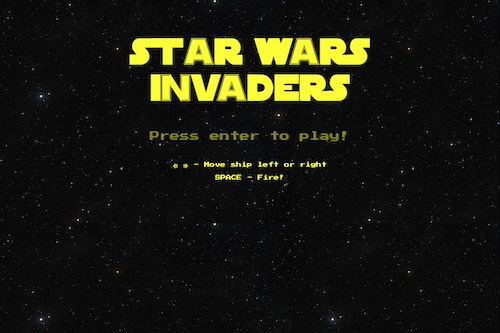
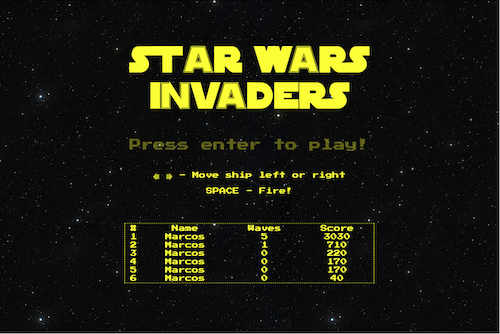
Create Enemy Respawn logic and others
Enemies Respawn after killing all
Wave counter
Limit the rate of fire to 2 missiles per second
High Score table

diff --git a/script.js b/script.js
@@ -10,16 +10,19 @@ const totalNumEnemies = 55;
 const enemies = [];
 const bullets = [];
 
+let highScores = [];
 let initialScreen = "";
 let player = "";
 let gameStarted;
 let playerX;
 let currScore;
-let moveRight; //used in moveEnemies() for having grid of enemies to go left and right
+let waveCounter;
+let moveRight;
 let moveLeft;
 let moveDown;
 let moveDownAgain;
 let enemyReachedEdge;
+let canShoot;
 
 /*====================
 INIT FUNCTION:
@@ -31,11 +34,13 @@ function init() {
   gameStarted = false;
   playerX = 0;
   currScore = 0; //initial score value
+  waveCounter = 0;
   moveRight = true; //variables used by moveEnemies() for moving grid of enemies. Right = true as that is the first direction
   moveLeft = false;
   moveDown = false;
   moveDownAgain = false;
   enemyReachedEdge = false;
+  canShoot = true;
 
   createInitialScreen();
   createEventListener();
@@ -69,6 +74,67 @@ function createInitialScreen() {
   fireInstructions.id = "fire-instructions";
   fireInstructions.innerText = "SPACE - Fire!";
   initialScreen.appendChild(fireInstructions);
+
+  displayHighScores();
+}
+
+/*====================
+CREATE HIGH SCORE TABLE ON INITIAL SCREEN
+====================*/
+function displayHighScores() {
+  const highScores = getHighScores();
+
+  // Display the high scores in a table
+  const table = document.createElement("table");
+  table.id = "initial-screen-high-score-table";
+  const tableBody = document.createElement("tbody");
+
+  //create table headers
+  const rowHeader = document.createElement("tr");
+
+  const rankCellHeader = document.createElement("th");
+  rankCellHeader.textContent = "#";
+  rowHeader.appendChild(rankCellHeader);
+
+  const nameCellHeader = document.createElement("th");
+  nameCellHeader.textContent = "Name";
+  rowHeader.appendChild(nameCellHeader);
+
+  const wavesCellHeader = document.createElement("th");
+  wavesCellHeader.textContent = "Waves";
+  rowHeader.appendChild(wavesCellHeader);
+
+  const scoreCellHeader = document.createElement("th");
+  scoreCellHeader.textContent = "Score";
+  rowHeader.appendChild(scoreCellHeader);
+
+  tableBody.appendChild(rowHeader);
+
+  // Create table rows for each high score
+  highScores.forEach((highScore, index) => {
+    const row = document.createElement("tr");
+
+    const rankCell = document.createElement("td");
+    rankCell.textContent = index + 1;
+    row.appendChild(rankCell);
+
+    const nameCell = document.createElement("td");
+    nameCell.textContent = highScore.playerName;
+    row.appendChild(nameCell);
+
+    const wavesCell = document.createElement("td");
+    wavesCell.textContent = highScore.waves;
+    row.appendChild(wavesCell);
+
+    const scoreCell = document.createElement("td");
+    scoreCell.textContent = highScore.score;
+    row.appendChild(scoreCell);
+
+    tableBody.appendChild(row);
+  });
+
+  table.appendChild(tableBody);
+  initialScreen.appendChild(table);
 }
 
 /*====================
@@ -106,14 +172,13 @@ function createEventListener() {
       player.style.left = playerX + "px";
     } else if (event.key === " " && event.target == document.body) {
       event.preventDefault(); //prevents space bar to scroll down on page (its default)
-      shootAudio.play();
       shootBullet();
     }
   });
 }
 
 /*====================
-CREATE SCORE TOP RIGHT DISPLAY
+CREATE SCORE TOP RIGHT DISPLAY ON THE DOM - AFTER GAME START
 ====================*/
 
 function createScore() {
@@ -128,12 +193,22 @@ function createScore() {
 
   const scoreValue = document.createElement("p");
   scoreValue.id = "score-value";
-  scoreValue.textContent = "0";
+  scoreValue.textContent = currScore;
   scoreContainer.appendChild(scoreValue);
+
+  const waveLabel = document.createElement("p");
+  waveLabel.id = "wave-label";
+  waveLabel.innerText = "Wave:";
+  scoreContainer.appendChild(waveLabel);
+
+  const waveValue = document.createElement("p");
+  waveValue.id = "wave-value";
+  waveValue.textContent = waveCounter;
+  scoreContainer.appendChild(waveValue);
 }
 
 /*====================
-CREATE & POSITION PLAYER FUNCTIONS
+CREATE & POSITION PLAYER
 ====================*/
 
 function createPlayer() {
@@ -285,13 +360,21 @@ CREATE EACH BULLET, ADD TO BULLETS ARRAY AND CALL POSITION BULLET FUNCTION
 ====================*/
 
 function shootBullet() {
-  if (gameStarted) {
-    //if statement to avoid creating a bullet on the initial screen, before game starting
+  if (gameStarted && canShoot) {
+    //check the value of CanShoot before creating new bullet. If false exit function early
+    //chack if game started to avoid creating a bullet on the initial screen, before game stars
+    shootAudio.play();
     const bullet = document.createElement("div");
     bullet.className = "bullet";
     gameContainer.appendChild(bullet);
     bullets.push(bullet);
     positionBullet(bullet);
+
+    //otherwise set canShoot to false and start a timer to reset canShoot to true after 0.5 seconds (to limit the rate of fire to 2 missiles per second).
+    canShoot = false;
+    setTimeout(function () {
+      canShoot = true;
+    }, 500);
   }
 }
 /*====================
@@ -351,11 +434,17 @@ function checkCollision(bullet) {
       bulletPos.bottom > enemyPos.top
     ) {
       // Collision detected
-      bullet.remove();
+      bullet.remove(); //remove bullet from the DOM
       bullets.splice(bullets.indexOf(bullet), 1);
-      enemy.remove();
+
+      enemy.remove(); //remove enemy from the DOM
       enemies.splice(enemies.indexOf(enemy), 1);
       incrementScore();
+
+      if (enemies.length === 0) {
+        createEnemyGrid();
+        incrementWave();
+      }
     }
   });
 }
@@ -372,13 +461,57 @@ function incrementScore() {
   score.innerHTML = currScore;
 }
 
+function incrementWave() {
+  waveCounter += 1;
+  const wave = document.getElementById("wave-value");
+  wave.innerHTML = waveCounter;
+}
+
+/*====================
+SAVE HIGH SCORES
+- Get high score array from local storage, add score to array, sort (descending), remove scores beyond top 5, update local storage
+====================*/
+function saveHighScore(playerName, waves, score) {
+  // Get existing high scores from localStorage or initialize an empty array
+  highScores = JSON.parse(localStorage.getItem("highScores"));
+
+  // Create a new high score object
+  const newHighScore = { playerName, waves, score };
+
+  // Add the new high score to the array
+  highScores.push(newHighScore);
+
+  // Sort the high scores array in descending order based on the score (wave follows score)
+  highScores.sort((a, b) => b.score - a.score);
+
+  // Remove any extra scores beyond the top 10
+  if (highScores.length > 10) {
+    highScores.splice(10);
+  }
+
+  // Store the updated high scores array in localStorage
+  localStorage.setItem("highScores", JSON.stringify(highScores));
+}
+
+/*====================
+GET HIGH SCORES FROM BROWSER LOCAL STORAGE
+====================*/
+
+function getHighScores() {
+  // Get high scores from localStorage or return an empty array if there are no high scores
+  return JSON.parse(localStorage.getItem("highScores")) || [];
+}
+
 /*====================
 GAME OVER FUNCTION
 ====================*/
 function gameOver() {
   gameOverAudio.play();
-  alert("Game Over");
-  console.log("Game Over");
+  // alert("Game Over");
+  const playerName = "Marcos";
+  const waves = waveCounter;
+  const score = currScore;
+  saveHighScore(playerName, waves, score);
   reinit();
 }
 

diff --git a/style.css b/style.css
@@ -19,7 +19,7 @@ INITIAL / PRE-GAME SCREEN SETTINGS
   position: absolute;
   top: 30%;
   left: 50%;
-  transform: translate(-50%, -50%);
+  transform: translate(-50%, -30%);
 }
 
 #game-name-label {
@@ -30,7 +30,7 @@ INITIAL / PRE-GAME SCREEN SETTINGS
 }
 
 #enter-to-play {
-  font-size: 1.5em;
+  font-size: 1.8em;
   font-family: "Press Start 2P", system-ui;
   color: yellow;
   text-align: center;
@@ -52,17 +52,30 @@ INITIAL / PRE-GAME SCREEN SETTINGS
 
 #move-instructions {
   margin-top: 50px;
-  font-size: 0.8em;
+  font-size: 1em;
   font-family: "Press Start 2P", system-ui;
   color: yellow;
   text-align: center;
 }
 
 #fire-instructions {
-  font-size: 0.8em;
+  font-size: 1em;
   font-family: "Press Start 2P", system-ui;
   color: yellow;
   text-align: center;
+}
+
+#initial-screen-high-score-table {
+  margin-top: 70px;
+  font-size: 1em;
+  font-family: "Press Start 2P", system-ui;
+  color: yellow;
+  text-align: center;
+  border: 1px;
+  border-color: yellow;
+  border-style: dashed;
+  border-width: 0.1em;
+  width: 100%;
 }
 
 /*====================
@@ -72,7 +85,7 @@ SCORE LABEL AND VALUE SETTINGS
 #score-label {
   position: absolute;
   top: 0%;
-  left: 90%;
+  left: 88%;
   transform: translate(-50%, -50%);
   color: yellow;
   font-family: "Press Start 2P", system-ui;
@@ -81,7 +94,25 @@ SCORE LABEL AND VALUE SETTINGS
 #score-value {
   position: absolute;
   top: 0%;
-  left: 97%;
+  left: 96%;
+  transform: translate(-50%, -50%);
+  color: yellow;
+  font-family: "Press Start 2P", system-ui;
+}
+
+#wave-label {
+  position: absolute;
+  top: 0%;
+  left: 75%;
+  transform: translate(-50%, -50%);
+  color: yellow;
+  font-family: "Press Start 2P", system-ui;
+}
+
+#wave-value {
+  position: absolute;
+  top: 0%;
+  left: 81%;
   transform: translate(-50%, -50%);
   color: yellow;
   font-family: "Press Start 2P", system-ui;
@@ -96,7 +127,7 @@ PLAYER STYLE SETTINGS
   position: sticky;
   width: 50px;
   height: 50px;
-  background-image: url("./assets/player.png");
+  background-image: url("./assets/player2.png");
   bottom: 0;
   left: 602px;
   top: 800px;

diff --git a/todo.html b/todo.html
@@ -59,9 +59,7 @@
           <li>[ ] Game Setup</li>
           <ul>
             <li style="color: red">[ ] Update Readme.md</li>
-            <li style="color: red">
-              [ ] Setup Github Pages https://pages.github.com/
-            </li>
+            <li>[✔] Setup Github Pages https://pages.github.com/</li>
             <li>[✔] Set up the game container using HTML</li>
             <li>
               [✔] Style the game container and game objects using CSS (visual
@@ -106,10 +104,10 @@
       <div id="nice-have-list">
         <ul>
           <li>[✔] Sound effects</li>
-          <li>[✔] Music?</li>
+          <li>[✔] Background Music</li>
           <li>[ ] Enemies and player collisions</li>
           <li>[ ] Progressively harder enemies</li>
-          <li>[ ] PLayer choose MF or X-wing</li>
+          <li>[ ] Player choose MF or X-wing</li>
           <li>[ ] Enemies shoot back</li>
           <li>[ ] Player has 3 lives</li>
         </ul>
@@ -126,16 +124,14 @@
             destroy(), init()) when game ends (either winning or losing)
           </li>
           <li style="color: red">[ ] Limit amount of bullets on the screen</li>
-          <li style="color: red">[ ] Enemy Wave counter</li>
+          <li>[✔] Enemy Wave counter</li>
 
           <li style="color: red">
             [ ] Enemies start moving faster when there are less of them
           </li>
           <li>[✔] upon loosing reset and bring back to initial screen</li>
           <li>[✔] Slow down Enemy Movement</li>
-          <li style="color: red">
-            [ ] Kills all enemies -> create more and update wave counter
-          </li>
+          <li>[✔] Kills all enemies -> create more and update wave counter</li>
         </ul>
       </div>
     </div>
